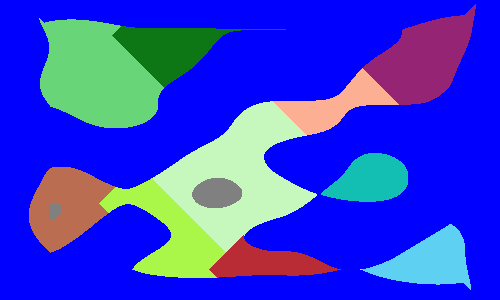
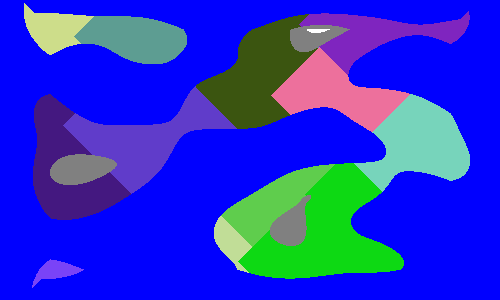
Color to Color32 changed

diff --git a/Assets/MapGenerator/MapGenerator.cs b/Assets/MapGenerator/MapGenerator.cs
@@ -1,7 +1,9 @@
 using System;
 using System.Collections.Generic;
+using System.Linq;
 using Unity.Burst.Intrinsics;
 using UnityEngine;
+using static UnityEditor.VersionControl.Asset;
 using Color = UnityEngine.Color;
 using Random = UnityEngine.Random;
 
@@ -22,9 +24,22 @@ public class MapGenerator : MonoBehaviour
     [SerializeField, Range(0, 50)] private int outerBoundaryYSize = 10;
     [SerializeField, Range(0, 300)] private int Statesize = 170;
 
-    private Color[] Terrain;
+    private List<Color32> ColorsUsedInTerrain = new List<Color32>() { Color.green, Color.blue, Color.white, Color.gray, Color.yellow };
 
-    private List<Color> ColorsUsedInTerrain = new List<Color>() { Color.green, Color.blue, Color.white, Color.gray, Color.yellow };
+    private Camera mainCamera;
+
+    void Start()
+    {
+        mainCamera = Camera.main;
+    }
+
+    void Update()
+    {
+        if (Input.GetMouseButtonDown(0))
+        {
+            var provinceColor = ColorHelper.GetColor(mainCamera, Input.mousePosition);
+        }
+    }
 
     public void GenerateMap()
     {
@@ -32,7 +47,6 @@ public class MapGenerator : MonoBehaviour
 
         var terrainTexture = ImageHelper.CreateTexture2D(Terrain, this.mapWidth, this.mapHeight);
         ImageHelper.SaveMap(terrainTexture, Application.dataPath + "/GeneratedMaps/Terrain.png");
-
         var statesTexture = ImageHelper.CreateTexture2D(States, this.mapWidth, this.mapHeight);
         ImageHelper.SaveMap(statesTexture, Application.dataPath + "/GeneratedMaps/States.png");
 
@@ -43,6 +57,8 @@ public class MapGenerator : MonoBehaviour
     {
         var sprite = ImageHelper.LoadImageFromDisk(this.mapWidth, this.mapHeight, Application.dataPath + "/GeneratedMaps/Terrain.png");
         GetComponent<SpriteRenderer>().sprite = sprite;
+        sprite.texture.filterMode = FilterMode.Point;
+        sprite.texture.Apply();
     }
 
     public void ShowStates()
@@ -51,26 +67,26 @@ public class MapGenerator : MonoBehaviour
         GetComponent<SpriteRenderer>().sprite = sprite;
     }
 
-    private (Color[] Terrain, Color[] States) GeneratePixels()
+    private (Color32[] Terrain, Color32[] States) GeneratePixels()
     {
         var generator = new TerrainGenerator(this.mapWidth, this.mapHeight, this.noiseScale, this.random, this.outerBoundaryXSize, this.outerBoundaryYSize);
         var noiseMap = generator.GenerateNoiseMap();
-        this.Terrain = generator.GenerateTerrain(noiseMap, this.waterThreshold, this.beachThreshold, this.grassThreshold, this.mountainThreshold);
+        var terrain = generator.GenerateTerrain(noiseMap, this.waterThreshold, this.beachThreshold, this.grassThreshold, this.mountainThreshold);
 
-        var states = GenerateStates(this.Terrain);
+        var states = GenerateStates(terrain);
 
-        return (this.Terrain, states);
+        return (terrain, states);
     }
 
-    private Color[] GenerateStates(Color[] Terrain)
+    private Color32[] GenerateStates(Color32[] Terrain)
     {
-        var states = new Color[Terrain.Length];
+        var states = new Color32[Terrain.Length];
         Array.Copy(Terrain, states, Terrain.Length);
 
         var found = true;
         var startingPosition = new Vector2();
 
-        var stateColors = new List<Color>();
+        var stateColors = new List<Color32>();
 
         while (found)
         {
@@ -93,7 +109,7 @@ public class MapGenerator : MonoBehaviour
             if (found)
             {
                 var size = UnityEngine.Random.Range(this.Statesize / 2, this.Statesize);
-                var colorsToReplace = new Color[] { Color.green, Color.yellow };
+                var colorsToReplace = new Color32[] { Color.green, Color.yellow };
                 var stateColor = AddNewRandomColorToList(stateColors);
                 PaintHelper.FloodPaint(states, this.mapWidth, this.mapHeight, startingPosition, colorsToReplace, stateColor, size);
             }
@@ -102,17 +118,22 @@ public class MapGenerator : MonoBehaviour
         return states;
     }
 
-    Color AddNewRandomColorToList(List<Color> colorList)
+    Color32 AddNewRandomColorToList(List<Color32> colorList)
     {
-        Color randomColor;
+        Color32 randomColor;
 
         do
         {
             // Generate a random color
-            randomColor = new Color(Random.value, Random.value, Random.value);
+            randomColor = new Color32(
+    (byte)Random.Range(0, 256),  // Random red component (0 to 255)
+    (byte)Random.Range(0, 256),  // Random green component (0 to 255)
+    (byte)Random.Range(0, 256),  // Random blue component (0 to 255)
+    255                           // Fully opaque alpha component (255)
+);
 
             // Check if the color is already in the list
-        } while ( ColorHelper.ColorListContainsColor(colorList, randomColor) || ColorHelper.ColorListContainsColor(this.ColorsUsedInTerrain, randomColor));
+        } while (ColorHelper.ColorListContainsColor(colorList, randomColor) || ColorHelper.ColorListContainsColor(this.ColorsUsedInTerrain, randomColor));
 
         // Add the new color to the list if needed
         colorList.Add(randomColor);

diff --git a/Assets/Provinces/ProvincesMap.cs b/Assets/Provinces/ProvincesMap.cs
@@ -1,15 +1,13 @@
-using System;
 using System.Collections.Generic;
 using UnityEngine;
 using System.Linq;
-using Unity.VisualScripting;
-using UnityEngine.EventSystems;
+using Vector3 = UnityEngine.Vector3;
 
 public class ProvincesMap : MonoBehaviour
 {
-    public List<Province> Provinces;
+    public HashSet<Province> Provinces = new HashSet<Province>();
     public Texture2D mapImage;
-    public HashSet<Color> provinceColors = new HashSet<Color>();
+    public HashSet<Color32> provinceColors = new HashSet<Color32>();
     public SpriteRenderer spriteRenderer;
 
     public IProvinceDisplayer ProvinceDisplayer;
@@ -30,30 +28,55 @@ public class ProvincesMap : MonoBehaviour
         ProvinceDisplayer = GameObject.FindObjectsOfType<InGameUI>().FirstOrDefault();
         var pixels = this.mapImage.GetPixels();
 
-        Provinces = new List<Province>();
-        var terrainColors = new HashSet<Color>() { Color.blue, Color.gray, Color.white };
+        var terrainColors = new HashSet<Color32>() { Color.blue, Color.gray, Color.white };
+
+        var provinceNames = new List<string>
+        {
+            "Eldrathia",
+            "Silverholm",
+            "Misthaven",
+            "Emberwold",
+            "Frostspire",
+            "Celestial Reach",
+            "Shadowmere",
+            "Stormwatch",
+            "Crimson Valley",
+            "Ironpeak",
+            "Whispering Woods",
+            "Serpent's Coil",
+            "Golden Plains",
+            "Moonshroud",
+            "Thunderhelm",
+            "Starfallen Reach",
+            "Azure Haven",
+            "Wyrmguard",
+            "Obsidian Marches",
+            "Sylvanheart"
+        };
 
         for (var x = 0; x < this.mapImage.width; x++)
         {
             for (var y = 0; y < this.mapImage.height; y++)
             {
                 var pixelColor = pixels[y * this.mapImage.width + x];
-                if (!terrainColors.Any(tc => tc.Equals(pixelColor)))
+                if (!terrainColors.Any(tc => tc == pixelColor))
                 {
-                    provinceColors.Add(pixelColor);
+                    if (!provinceColors.Contains(pixelColor))
+                    {
+                        provinceColors.Add(pixelColor);
+
+                        // Choose a random index
+                        var random = Random.Range(0, provinceNames.Count());
+
+                        // Get and remove the random fantasy province name
+                        string randomProvince = provinceNames[random];
+                        provinceNames.RemoveAt(random);
+
+                        this.Provinces.Add(new Province(randomProvince, pixelColor));
+                    }
                 }
             }
         }
-
-        //provinceColors = new HashSet<Color>(pixels);
-        //provinceColors.Remove(Color.black);
-        //provinceColors.Remove(Color.white);
-
-        //foreach (var province in Provinces)
-        //{
-        //    var match = provinceColors.First(pC => String.Equals(ColorUtility.ToHtmlStringRGB(pC), ColorUtility.ToHtmlStringRGB(province.Color), StringComparison.OrdinalIgnoreCase));
-        //    province.Color = match;
-        //}
     }
 
     private Camera mainCamera;
@@ -61,12 +84,11 @@ public class ProvincesMap : MonoBehaviour
     {
         if (Input.GetMouseButtonDown(0))
         {
-            ColorHelper.GetColor(mainCamera, Input.mousePosition);
+            var provinceColor = ColorHelper.GetColor(mainCamera, Input.mousePosition);
+            var clickedProvince = Provinces.Where(p => p.Color == provinceColor).FirstOrDefault();
+            //Debug.Log(clickedProvince.Name);
 
-            //var pixel = GetRGBA();
-            //Debug.Log(pixel);
-            //var clickedProvince = GetProvince(Input.mousePosition);
-            //ProvinceDisplayer.DisplayProvince(clickedProvince);
+            this.ProvinceDisplayer.DisplayProvince(clickedProvince);
         }
     }
 

diff --git a/Assets/MapGenerator/PaintHelper.cs b/Assets/MapGenerator/PaintHelper.cs
@@ -5,14 +5,14 @@ using UnityEngine;
 
 public static class PaintHelper
 {
-    public static void BucketFillImage(Color[] image, int imageWidth, int imageHeight, int floodStartX, int floodStartY, Color replacedColor, Color targetColor)
+    public static void BucketFillImage(Color32[] image, int imageWidth, int imageHeight, int floodStartX, int floodStartY, Color32 replacedColor, Color32 targetColor)
     {
         var floodSpiller = new FloodSpiller();
         var floodParameters = new FloodParameters(floodStartX, floodStartY)
         {
             BoundsRestriction = new FloodBounds(imageWidth, imageHeight),
             NeighbourhoodType = NeighbourhoodType.Four,
-            Qualifier = (x, y) => GetColor(image, imageWidth, x, y) == replacedColor,
+            Qualifier = (x, y) => GetColor(image, imageWidth, x, y).Equals(replacedColor),
             NeighbourProcessor = (x, y, mark) => SetColor(image, imageWidth, x, y, targetColor),
             ProcessStartAsFirstNeighbour = true
         };
@@ -21,7 +21,7 @@ public static class PaintHelper
         floodSpiller.SpillFlood(floodParameters, _positionMarkMatrix);
     }
 
-    public static void FloodPaint(Color[] image, int imageWidth, int imageHeight, Vector2 startPosition, Color[] replacedColors, Color targetColor, int size)
+    public static void FloodPaint(Color32[] image, int imageWidth, int imageHeight, Vector2 startPosition, Color32[] replacedColors, Color32 targetColor, int size)
     {
         Predicate<int, int> positionQualifier = (x, y) =>
         {
@@ -57,26 +57,24 @@ public static class PaintHelper
         floodSpiller.SpillFlood(floodParameters, _positionMarkMatrix);
     }
 
-    private static void SetColor(Color[] image, int imageWidth, int x, int y, Color targetColor)
+    private static void SetColor(Color32[] image, int imageWidth, int x, int y, Color32 targetColor)
     {
         image[y * imageWidth + x] = targetColor;
     }
 
-    private static Color GetColor(Color[] image, int imageWidth, int x, int y)
+    private static Color32 GetColor(Color32[] image, int imageWidth, int x, int y)
     {
         return image[y * imageWidth + x];
     }
 
-    public static Color GenerateRandomColor()
+    public static Color32 GenerateRandomColor()
     {
-        // Generate random values for each color component
-        float red = Random.Range(0f, 1f);
-        float green = Random.Range(0f, 1f);
-        float blue = Random.Range(0f, 1f);
-        float alpha = Random.Range(0f, 1f); // Optional: include alpha for transparency
-
-        // Create and return the random color
-        return new Color(red, green, blue, alpha);
+        return new Color32(
+            (byte)Random.Range(0, 256),  // Random red component (0 to 255)
+            (byte)Random.Range(0, 256),  // Random green component (0 to 255)
+            (byte)Random.Range(0, 256),  // Random blue component (0 to 255)
+            255                           // Fully opaque alpha component (255)
+        );
     }
 }
 

diff --git a/Assets/Common/ColorHelper.cs b/Assets/Common/ColorHelper.cs
@@ -3,13 +3,13 @@ using UnityEngine;
 
 public static class ColorHelper
 {
-    public static bool ColorListContainsColor(List<Color> colorList, Color color)
+    public static bool ColorListContainsColor(List<Color32> colorList, Color32 color)
     {
         // Check if the color is in the list (exact comparison)
         return colorList.Contains(color);
     }
 
-    public static Color GetColor(Camera camera, Vector3 position)
+    public static Color32 GetColor(Camera camera, Vector3 position)
     {
         Vector2 clickPosition = camera.ScreenToWorldPoint(Input.mousePosition);
         RaycastHit2D hit = Physics2D.Raycast(clickPosition, Vector2.zero);
@@ -36,18 +36,18 @@ public static class ColorHelper
                 int y = Mathf.RoundToInt(uv.y * texture.height);
 
                 // Get the color of the clicked pixel
-                Color pixelColor = texture.GetPixel(x, y);
+                Color32 pixelColor = texture.GetPixel(x, y);
 
                 // Extract RGB values
-                int r = Mathf.RoundToInt(pixelColor.r * 255);
-                int g = Mathf.RoundToInt(pixelColor.g * 255);
-                int b = Mathf.RoundToInt(pixelColor.b * 255);
+                //int r = Mathf.RoundToInt(pixelColor.r * 255);
+                //int g = Mathf.RoundToInt(pixelColor.g * 255);
+                //int b = Mathf.RoundToInt(pixelColor.b * 255);
 
                 // Print RGB values
-                Debug.Log("Clicked on RGB: (" + r + ", " + g + ", " + b + ")");
+                Debug.Log("Clicked on RGB: (" + pixelColor.r + ", " + pixelColor.g + ", " + pixelColor.b + ")");
                 return pixelColor;
             }
         }
-        return new Color();
+        return new Color32();
     }
 }

diff --git a/Assets/MapGenerator/ImageHelper.cs b/Assets/MapGenerator/ImageHelper.cs
@@ -1,4 +1,5 @@
 using System.IO;
+using System.Linq;
 using Unity.VisualScripting;
 using UnityEngine;
 
@@ -37,11 +38,11 @@ public class ImageHelper
         return Sprite.Create(texture, new Rect(0, 0, texture.width, texture.height), Vector2.one * 0.5f);
     }
 
-    public static Texture2D CreateTexture2D (Color[] pixels, int width, int height)
+    public static Texture2D CreateTexture2D (Color32[] pixels, int width, int height)
     {
         var texture = new Texture2D(width, height);
-        texture.SetPixels(pixels);
         texture.filterMode = FilterMode.Point;
+        texture.SetPixels32(pixels);
         texture.Apply();
         return texture;
     }

diff --git a/Assets/MapGenerator/TerrainGenerator.cs b/Assets/MapGenerator/TerrainGenerator.cs
@@ -1,3 +1,4 @@
+using System.Collections.Generic;
 using UnityEngine;
 
 public class TerrainGenerator
@@ -38,9 +39,9 @@ public class TerrainGenerator
         return noiseMap;
     }
 
-    public Color[] GenerateTerrain(float[,] noiseMap, float waterThreshold, float beachThreshold, float grassThreshold, float mountainThreshold)
+    public Color32[] GenerateTerrain(float[,] noiseMap, float waterThreshold, float beachThreshold, float grassThreshold, float mountainThreshold)
     {
-        var pixels = new Color[mapWidth * mapHeight];
+        var pixels = new Color32[mapWidth * mapHeight];
 
         for (var x = 0; x < mapWidth; x++)
         {
